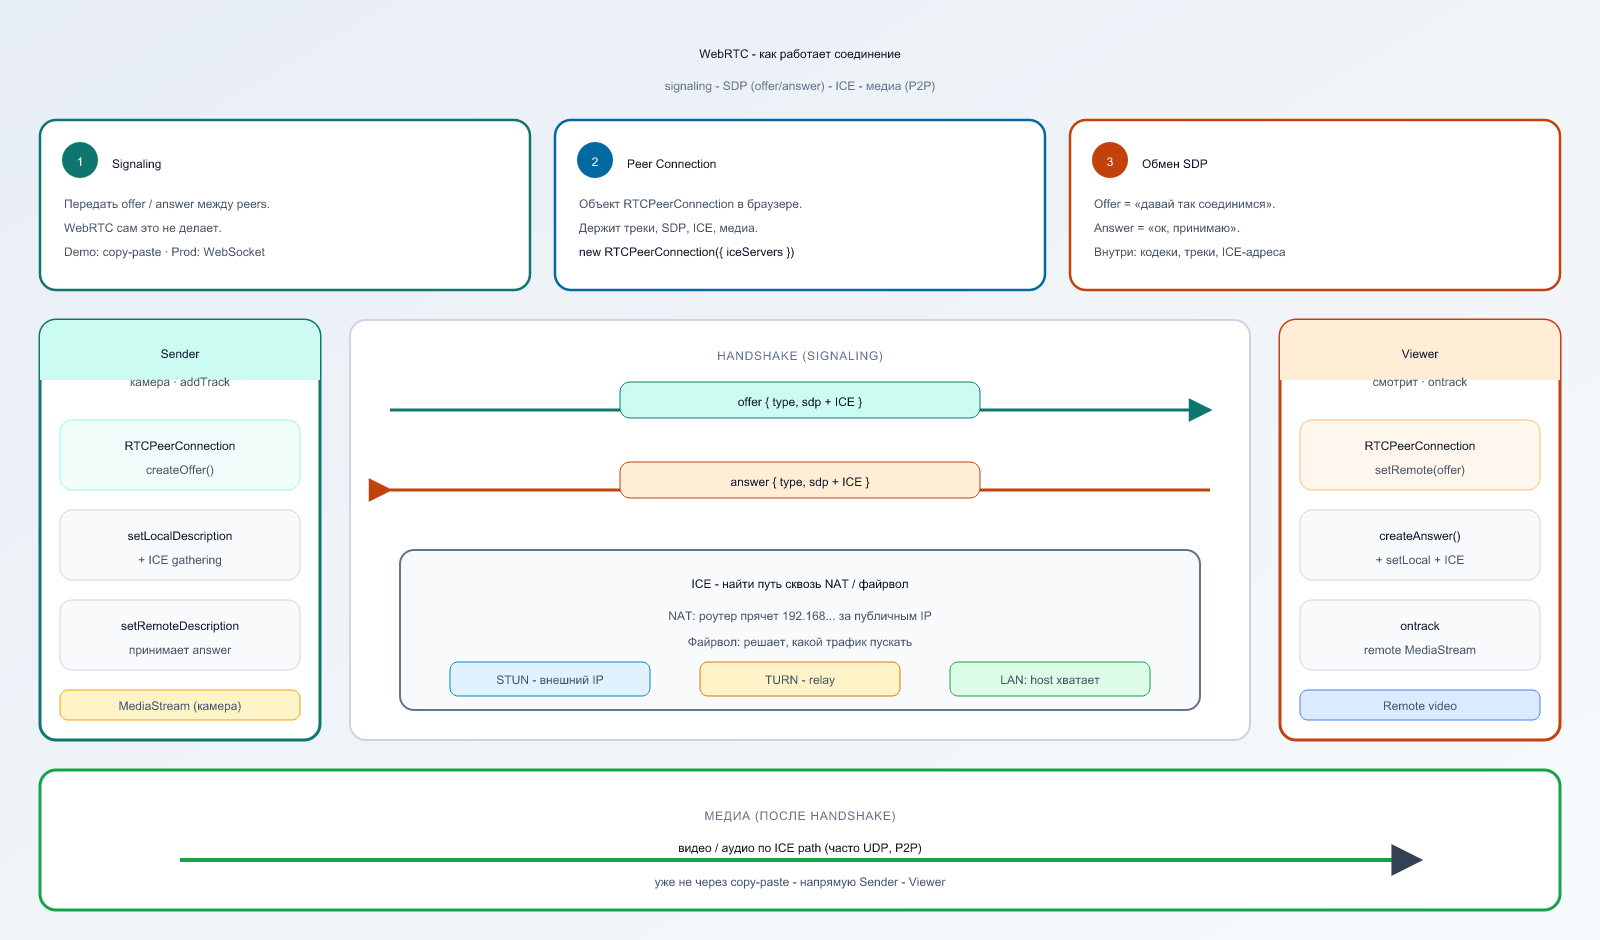
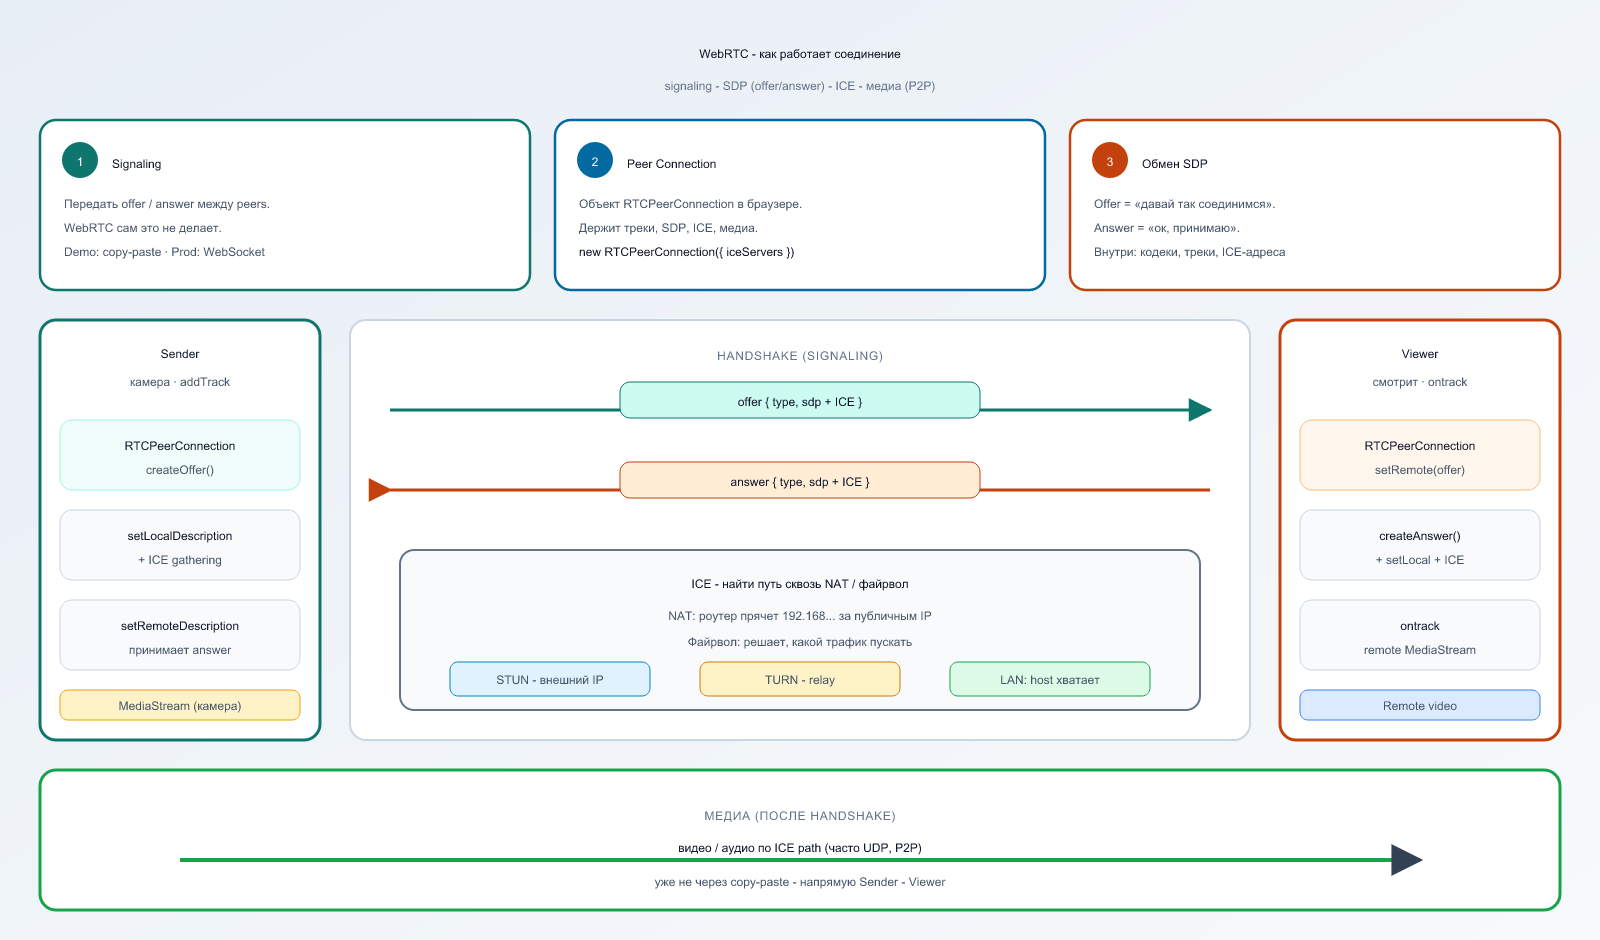
createSenderPeer и createViewerPeer

Changed region(s): [[0.7812, 0.3394, 1.0, 0.4319], [0.0, 0.3394, 0.2188, 0.4319]]

diff --git a/demo-app/src/lib/webrtcManualPeer.ts b/demo-app/src/lib/webrtcManualPeer.ts
@@ -16,24 +16,33 @@ export interface PeerSnapshot {
   connection: RTCPeerConnectionState;
 }
 
-export interface ManualPeerCallbacks {
+export interface SenderPeerCallbacks {
+  onStateChange: (snapshot: PeerSnapshot) => void;
+  onLocalSdp: (sdp: RTCSessionDescriptionInit) => void;
+}
+
+export interface ViewerPeerCallbacks {
   onStateChange: (snapshot: PeerSnapshot) => void;
   onRemoteStream: (stream: MediaStream | null) => void;
   onLocalSdp: (sdp: RTCSessionDescriptionInit) => void;
 }
 
-export interface ManualPeerSession {
-  role: PeerRole;
+export interface SenderPeerSession {
+  role: 'sender';
   stop: () => void;
-  /** Sender: create offer (with ICE gathered). */
   createOffer: () => Promise<RTCSessionDescriptionInit>;
-  /** Viewer: apply remote offer, create answer (with ICE gathered). */
+  acceptAnswer: (answer: RTCSessionDescriptionInit) => Promise<void>;
+}
+
+export interface ViewerPeerSession {
+  role: 'viewer';
+  stop: () => void;
   acceptOfferAndCreateAnswer: (
     offer: RTCSessionDescriptionInit,
   ) => Promise<RTCSessionDescriptionInit>;
-  /** Sender: apply remote answer. */
-  acceptAnswer: (answer: RTCSessionDescriptionInit) => Promise<void>;
 }
+
+export type ManualPeerSession = SenderPeerSession | ViewerPeerSession;
 
 function readSnapshot(pc: RTCPeerConnection): PeerSnapshot {
   return {
@@ -71,6 +80,33 @@ function waitForIceGatheringComplete(pc: RTCPeerConnection): Promise<void> {
   });
 }
 
+function attachStateListeners(
+  pc: RTCPeerConnection,
+  onStateChange: (snapshot: PeerSnapshot) => void,
+): () => void {
+  const notifyState = () => onStateChange(readSnapshot(pc));
+
+  pc.onconnectionstatechange = notifyState;
+  pc.oniceconnectionstatechange = notifyState;
+  pc.onicegatheringstatechange = notifyState;
+  pc.onsignalingstatechange = notifyState;
+
+  notifyState();
+  return notifyState;
+}
+
+async function localDescriptionPayload(
+  pc: RTCPeerConnection,
+  label: string,
+): Promise<RTCSessionDescriptionInit> {
+  await waitForIceGatheringComplete(pc);
+  const local = pc.localDescription;
+  if (!local) {
+    throw new Error(`localDescription пуст после ${label}`);
+  }
+  return { type: local.type, sdp: local.sdp };
+}
+
 export function parseSessionDescription(raw: string): RTCSessionDescriptionInit {
   const trimmed = raw.trim();
   if (!trimmed) {
@@ -88,24 +124,55 @@ export function formatSessionDescription(desc: RTCSessionDescriptionInit): strin
   return JSON.stringify({ type: desc.type, sdp: desc.sdp }, null, 2);
 }
 
-export function createManualPeer(options: {
-  role: PeerRole;
-  localStream?: MediaStream | null;
+/** Sender: камера → offer, потом принимает answer. Remote video не ждёт. */
+export function createSenderPeer(options: {
+  localStream: MediaStream;
   iceServers?: RTCIceServer[];
-  callbacks: ManualPeerCallbacks;
-}): ManualPeerSession {
-  const { role, localStream, callbacks } = options;
+  callbacks: SenderPeerCallbacks;
+}): SenderPeerSession {
+  const { localStream, callbacks } = options;
+  const iceServers = options.iceServers ?? DEFAULT_ICE_SERVERS;
+  const { onStateChange, onLocalSdp } = callbacks;
+
+  const pc = new RTCPeerConnection({ iceServers });
+  const notifyState = attachStateListeners(pc, onStateChange);
+
+  for (const track of localStream.getTracks()) {
+    pc.addTrack(track, localStream);
+  }
+
+  return {
+    role: 'sender',
+    stop: () => {
+      pc.close();
+      notifyState();
+    },
+    createOffer: async () => {
+      const offer = await pc.createOffer();
+      await pc.setLocalDescription(offer);
+      const payload = await localDescriptionPayload(pc, 'offer');
+      onLocalSdp(payload);
+      notifyState();
+      return payload;
+    },
+    acceptAnswer: async (answer) => {
+      await pc.setRemoteDescription(answer);
+      notifyState();
+    },
+  };
+}
+
+/** Viewer: принимает offer → answer, показывает remote stream через ontrack. */
+export function createViewerPeer(options: {
+  iceServers?: RTCIceServer[];
+  callbacks: ViewerPeerCallbacks;
+}): ViewerPeerSession {
+  const { callbacks } = options;
   const iceServers = options.iceServers ?? DEFAULT_ICE_SERVERS;
   const { onStateChange, onRemoteStream, onLocalSdp } = callbacks;
 
   const pc = new RTCPeerConnection({ iceServers });
-
-  const notifyState = () => onStateChange(readSnapshot(pc));
-
-  pc.onconnectionstatechange = notifyState;
-  pc.oniceconnectionstatechange = notifyState;
-  pc.onicegatheringstatechange = notifyState;
-  pc.onsignalingstatechange = notifyState;
+  const notifyState = attachStateListeners(pc, onStateChange);
 
   pc.ontrack = (event) => {
     const remote =
@@ -113,63 +180,21 @@ export function createManualPeer(options: {
     onRemoteStream(remote);
   };
 
-  if (role === 'sender') {
-    if (!localStream) {
-      throw new Error('Sender: нужен localStream с камеры (Шаг 1)');
-    }
-    for (const track of localStream.getTracks()) {
-      pc.addTrack(track, localStream);
-    }
-  }
-
-  notifyState();
-
   return {
-    role,
+    role: 'viewer',
     stop: () => {
       pc.close();
       onRemoteStream(null);
       notifyState();
     },
-    createOffer: async () => {
-      if (role !== 'sender') {
-        throw new Error('createOffer только у sender');
-      }
-      const offer = await pc.createOffer();
-      await pc.setLocalDescription(offer);
-      await waitForIceGatheringComplete(pc);
-      const local = pc.localDescription;
-      if (!local) {
-        throw new Error('localDescription пуст после offer');
-      }
-      const payload: RTCSessionDescriptionInit = { type: local.type, sdp: local.sdp };
-      onLocalSdp(payload);
-      notifyState();
-      return payload;
-    },
     acceptOfferAndCreateAnswer: async (offer) => {
-      if (role !== 'viewer') {
-        throw new Error('acceptOffer только у viewer');
-      }
       await pc.setRemoteDescription(offer);
       const answer = await pc.createAnswer();
       await pc.setLocalDescription(answer);
-      await waitForIceGatheringComplete(pc);
-      const local = pc.localDescription;
-      if (!local) {
-        throw new Error('localDescription пуст после answer');
-      }
-      const payload: RTCSessionDescriptionInit = { type: local.type, sdp: local.sdp };
+      const payload = await localDescriptionPayload(pc, 'answer');
       onLocalSdp(payload);
       notifyState();
       return payload;
-    },
-    acceptAnswer: async (answer) => {
-      if (role !== 'sender') {
-        throw new Error('acceptAnswer только у sender');
-      }
-      await pc.setRemoteDescription(answer);
-      notifyState();
     },
   };
 }

diff --git a/demo-app/src/steps/Step5WebRTCManual.tsx b/demo-app/src/steps/Step5WebRTCManual.tsx
@@ -2,7 +2,8 @@ import { useCallback, useEffect, useRef, useState } from 'react';
 import { VideoPreview } from '../components/VideoPreview';
 import { useStream } from '../context/StreamContext';
 import {
-  createManualPeer,
+  createSenderPeer,
+  createViewerPeer,
   formatSessionDescription,
   parseSessionDescription,
   type ManualPeerSession,
@@ -43,23 +44,9 @@ export default function Step5WebRTCManual() {
     setCopyStatus(null);
   }, []);
 
-  const startPeer = useCallback(
-    (peerRole: PeerRole) => {
-      const peer = createManualPeer({
-        role: peerRole,
-        localStream: peerRole === 'sender' ? stream : null,
-        callbacks: {
-          onStateChange: setSnapshot,
-          onRemoteStream: setRemoteStream,
-          onLocalSdp: (sdp) => setLocalSdpText(formatSessionDescription(sdp)),
-        },
-      });
-      sessionRef.current = peer;
-      setHasSession(true);
-      return peer;
-    },
-    [stream],
-  );
+  const onLocalSdp = useCallback((sdp: RTCSessionDescriptionInit) => {
+    setLocalSdpText(formatSessionDescription(sdp));
+  }, []);
 
   const changeRole = (next: PeerRole) => {
     if (next === role) return;
@@ -75,7 +62,18 @@ export default function Step5WebRTCManual() {
     setError(null);
     try {
       stopSession();
-      const peer = startPeer('sender');
+      if (!stream) {
+        throw new Error('Sender: нужен stream с камеры (Шаг 1)');
+      }
+      const peer = createSenderPeer({
+        localStream: stream,
+        callbacks: {
+          onStateChange: setSnapshot,
+          onLocalSdp,
+        },
+      });
+      sessionRef.current = peer;
+      setHasSession(true);
       await peer.createOffer();
     } catch (err) {
       setError(err instanceof Error ? err.message : String(err));
@@ -95,7 +93,15 @@ export default function Step5WebRTCManual() {
       if (offer.type !== 'offer') {
         throw new Error('Ожидался type: "offer"');
       }
-      const peer = startPeer('viewer');
+      const peer = createViewerPeer({
+        callbacks: {
+          onStateChange: setSnapshot,
+          onRemoteStream: setRemoteStream,
+          onLocalSdp,
+        },
+      });
+      sessionRef.current = peer;
+      setHasSession(true);
       await peer.acceptOfferAndCreateAnswer(offer);
     } catch (err) {
       setError(err instanceof Error ? err.message : String(err));

diff --git a/demo-app/src/App.tsx b/demo-app/src/App.tsx
@@ -8,10 +8,10 @@ const Step4InsertableStreams = lazy(() => import('./steps/Step4InsertableStreams
 const Step5WebRTCManual = lazy(() => import('./steps/Step5WebRTCManual'));
 
 const STEPS: StepMeta[] = [
-  { id: 1, title: 'Камера', subtitle: 'getUserMedia' },
-  { id: 2, title: 'Поток', subtitle: 'MediaStream & tracks' },
-  { id: 3, title: 'Canvas', subtitle: 'captureStream' },
-  { id: 4, title: 'Insertable', subtitle: 'VideoFrame' },
+  { id: 1, title: 'Камера', subtitle: '' },
+  { id: 2, title: 'Поток', subtitle: '' },
+  { id: 3, title: 'Canvas', subtitle: '' },
+  { id: 4, title: 'Insertable', subtitle: '' },
   { id: 5, title: 'WebRTC', subtitle: '' },
 ];
 